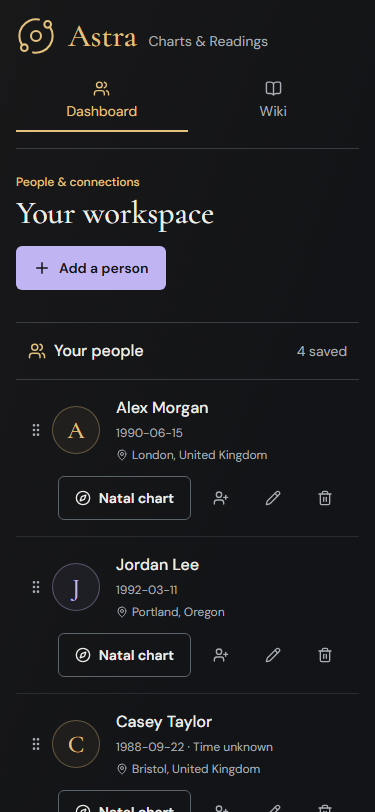
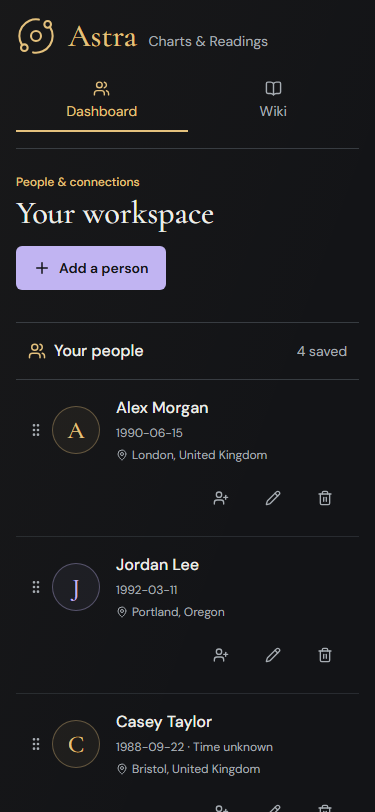
feat(web): remove per-person Natal chart buttons from the dashboard
Natal charts open by running a reading (one person in the reading slots); rows keep Include, Edit and Remove.

diff --git a/apps/web/src/pages/DashboardPage.test.tsx b/apps/web/src/pages/DashboardPage.test.tsx
@@ -30,7 +30,7 @@ function renderDashboard() {
 describe("Workspace person dialogs", () => {
   it("keeps saved charts prominent and preserves a draft when the dialog is dismissed", async () => {
     renderDashboard();
-    expect(await screen.findByRole("link", { name: "Open Alex Morgan's natal chart" })).toBeTruthy();
+    expect(await screen.findByRole("heading", { name: "Alex Morgan" })).toBeTruthy();
     expect(screen.queryByRole("textbox", { name: "Name" })).toBeNull();
     const trigger = screen.getByRole("button", { name: "Add a person" });
     trigger.focus();
@@ -70,10 +70,9 @@ describe("Workspace person dialogs", () => {
   it("keeps the card inert and edits a person from a dedicated button", async () => {
     vi.mocked(peopleApi.update).mockResolvedValue({ ...person, name: "Alex M." });
     renderDashboard();
-    const chartLink = await screen.findByRole("link", { name: "Open Alex Morgan's natal chart" });
-    expect(chartLink.getAttribute("href")).toBe("/chart/example");
+    expect(await screen.findByRole("heading", { name: "Alex Morgan" })).toBeTruthy();
     expect(screen.getByRole("heading", { name: "Alex Morgan" }).closest("a, button")).toBeNull();
-    expect(screen.getAllByRole("link")).toHaveLength(1);
+    expect(screen.queryAllByRole("link")).toHaveLength(0);
 
     fireEvent.click(screen.getByRole("button", { name: "Edit Alex Morgan" }));
     const dialog = screen.getByRole("dialog", { name: "Edit Alex Morgan" });

diff --git a/apps/web/src/pages/DashboardPage.tsx b/apps/web/src/pages/DashboardPage.tsx
@@ -1,6 +1,6 @@
 import { useEffect, useState } from "react";
-import { Link, useNavigate } from "react-router-dom";
-import { Compass, GripVertical, Pencil, Plus, Save, Trash2, UserCheck, UserPlus, Users, Orbit, MapPin } from "lucide-react";
+import { useNavigate } from "react-router-dom";
+import { GripVertical, Pencil, Plus, Save, Trash2, UserCheck, UserPlus, Users, Orbit, MapPin } from "lucide-react";
 import type { Ayanamsa, ReadingStyle, RelationshipType, ZodiacMode } from "@astro/shared";
 import { peopleApi, type PersonRecord } from "../api/peopleApi.js";
 import { synastryApi } from "../api/synastryApi.js";
@@ -297,9 +297,6 @@ export default function DashboardPage() {
                     {p.locationName && <span className="person-meta"><MapPin size={12} aria-hidden="true" />{p.locationName}</span>}
                   </div>
                   <div className="person-actions">
-                    <Link className="btn-secondary" to={`/chart/${p.id}`} draggable={false} aria-label={`Open ${p.name}'s natal chart`}>
-                      <Compass size={16} aria-hidden="true" /> Natal chart
-                    </Link>
                     <button
                       className="icon-button"
                       aria-pressed={inReading}

diff --git a/docs/design-system.md b/docs/design-system.md
@@ -108,7 +108,7 @@ interaction checks exist; it does not mean independent accessibility certificati
 | `.segmented-control` | Group/fieldset of buttons with `aria-pressed` | Wraps; selected state is a filled action background about 9:1 against the unselected surface (a lightness change, not hue alone), plus an outline in forced colors; no tab semantics unless true tab panels exist | Adopted |
 | `PlaceSearchInput` | `value`, `onChange(string)`, `onSelect(PlaceSuggestion)` unchanged | Editable manual-selection combobox; Up/Down, Enter, Escape, Tab; pointer selection retains input focus; in-flight stale results ignored | Adopted |
 | `PersonForm` | Controlled `draft`/`onChange` (parent keeps drafts across dialog close), `onSubmit`, `saving`, submit label/icon; `draftFromPerson`/`draftToPayload` helpers | Shared by Add and Edit dialogs; native labelled inputs; unknown-time toggle carries the date between inputs | Adopted |
-| Person rows | Non-interactive card; explicit "Natal chart" link, Include (toggle), Edit and Remove icon buttons; row is draggable | No card-level click target; actions wrap below identity on narrow rows; quiet icon buttons with named actions; grip shown only for fine pointers | Adopted |
+| Person rows | Non-interactive card with Include (toggle), Edit and Remove icon buttons; row is draggable; natal charts open by running a reading | No card-level click target; actions wrap below identity on narrow rows; quiet icon buttons with named actions; grip shown only for fine pointers | Adopted |
 | `ReadingSlot` | `label`, `emptyText`, `person`, `dragActive`, `onDropPerson(id)`, `onClear` | Labelled group accepting only the custom person drag type; dashed when empty, solid when filled, highlighted while dragging/over. Reading mode follows the filled slots (one = natal, two = synastry), so there is no separate mode control. The Include toggle (`aria-pressed`) on each person is the required non-drag alternative (WCAG 2.5.7) and the main path on touch | Adopted |
 | `Modal` | `open`, `onClose`, `title`, `children` unchanged | Native `showModal`, inert background, named dialog, Escape/close/outside click; bounded viewport scroll; trigger restoration | Adopted |
 | `useModalDialog` | `open` -> dialog ref | Shared lifecycle for scroll locking and restoration; does not own application state | Internal |
